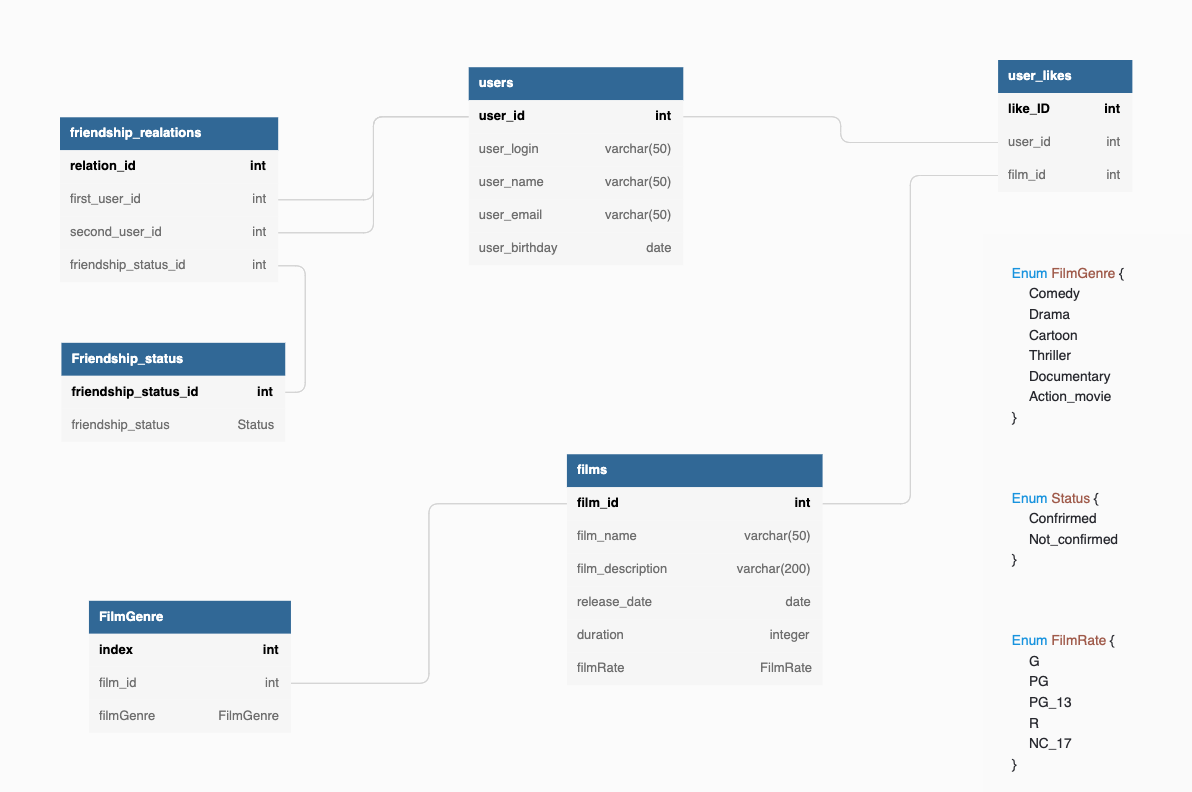
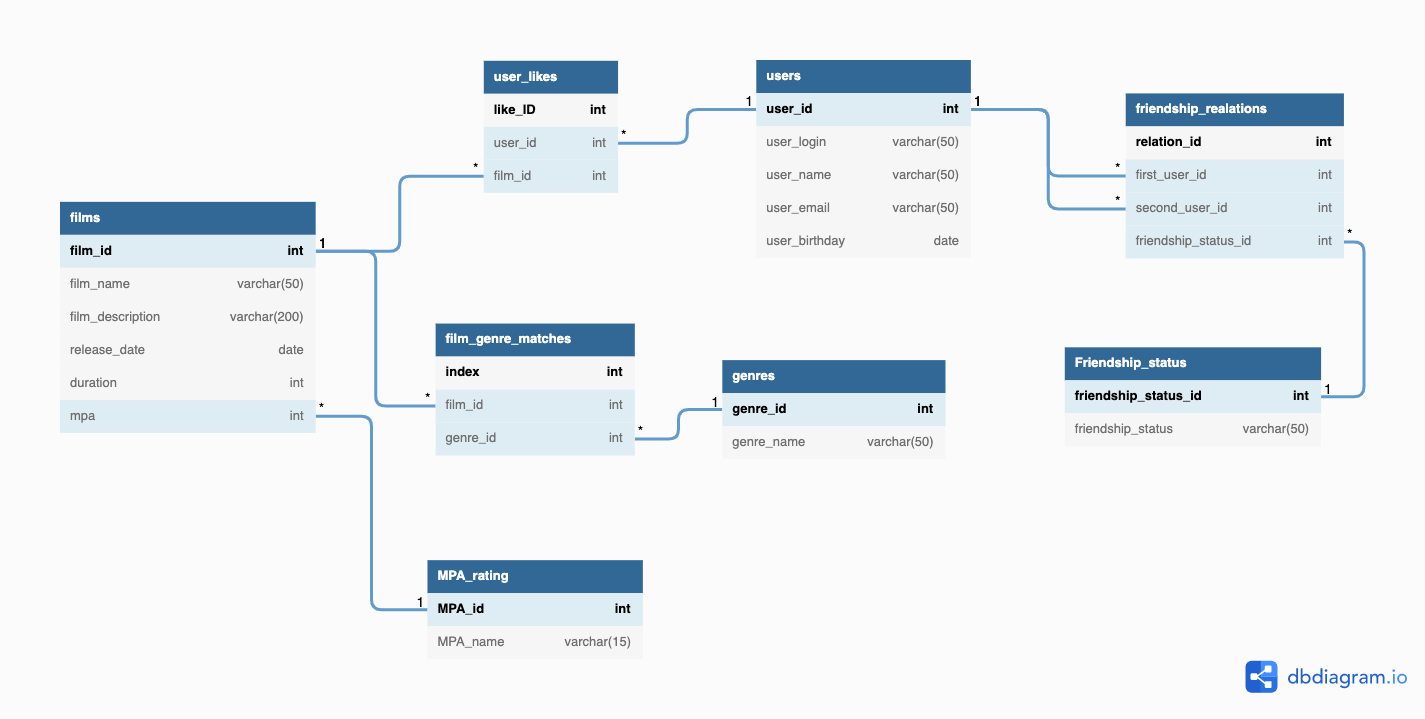
docs: Update README.md and scheme.png

diff --git a/README.md b/README.md
@@ -20,13 +20,9 @@ SELECT *
 FROM users;
 ```
 
-- **Запрос топ 10 фильмов:**
+- **Удаление лайка:**
 ```
-SELECT f.film_id, 
-COUNT (u.user_id) AS rate
-FROM user_likes AS u
-LEFT OUTER JOIN films AS f ON u.film_id = f.film_id
-GROUP BY f.film_id
-ORDER BY rate DESC
-LIMIT 10;
+DELETE 
+FROM user_likes 
+WHERE USER_ID = ? AND FILM_ID = ?
 ```
